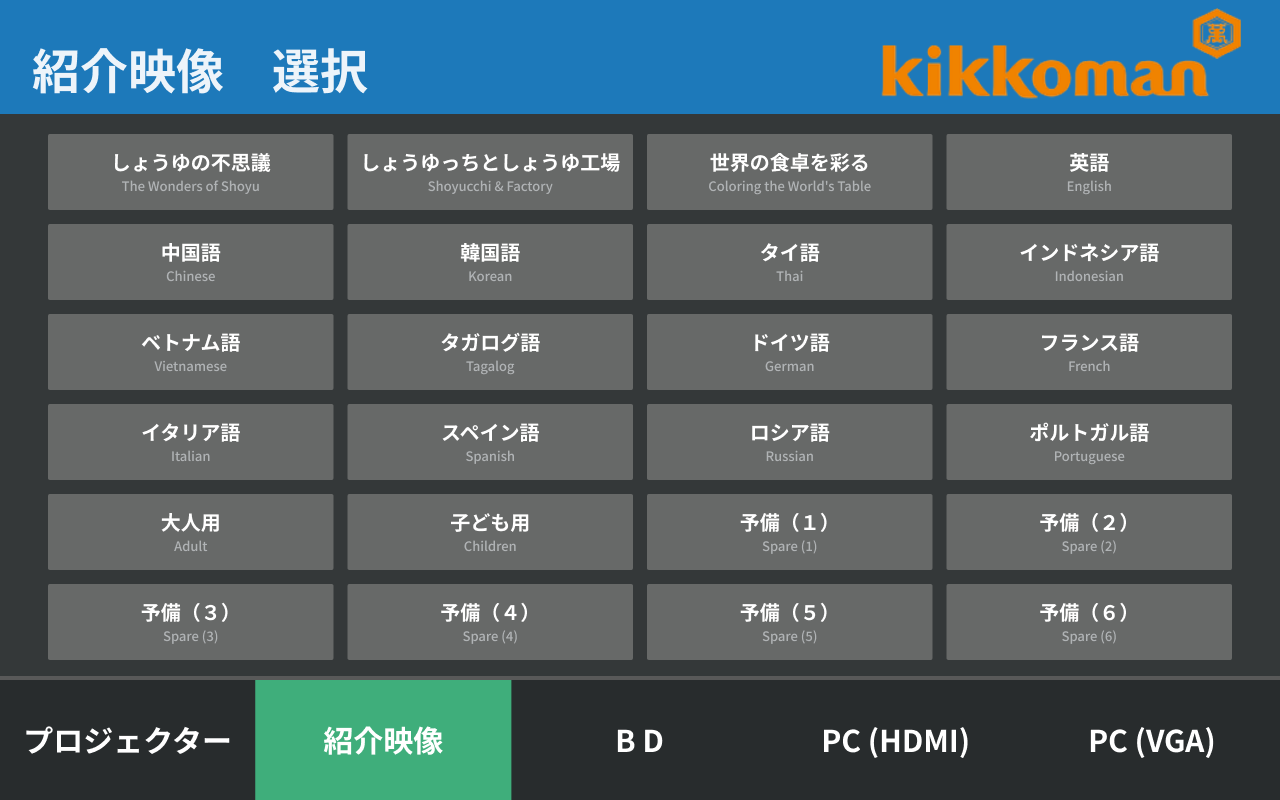
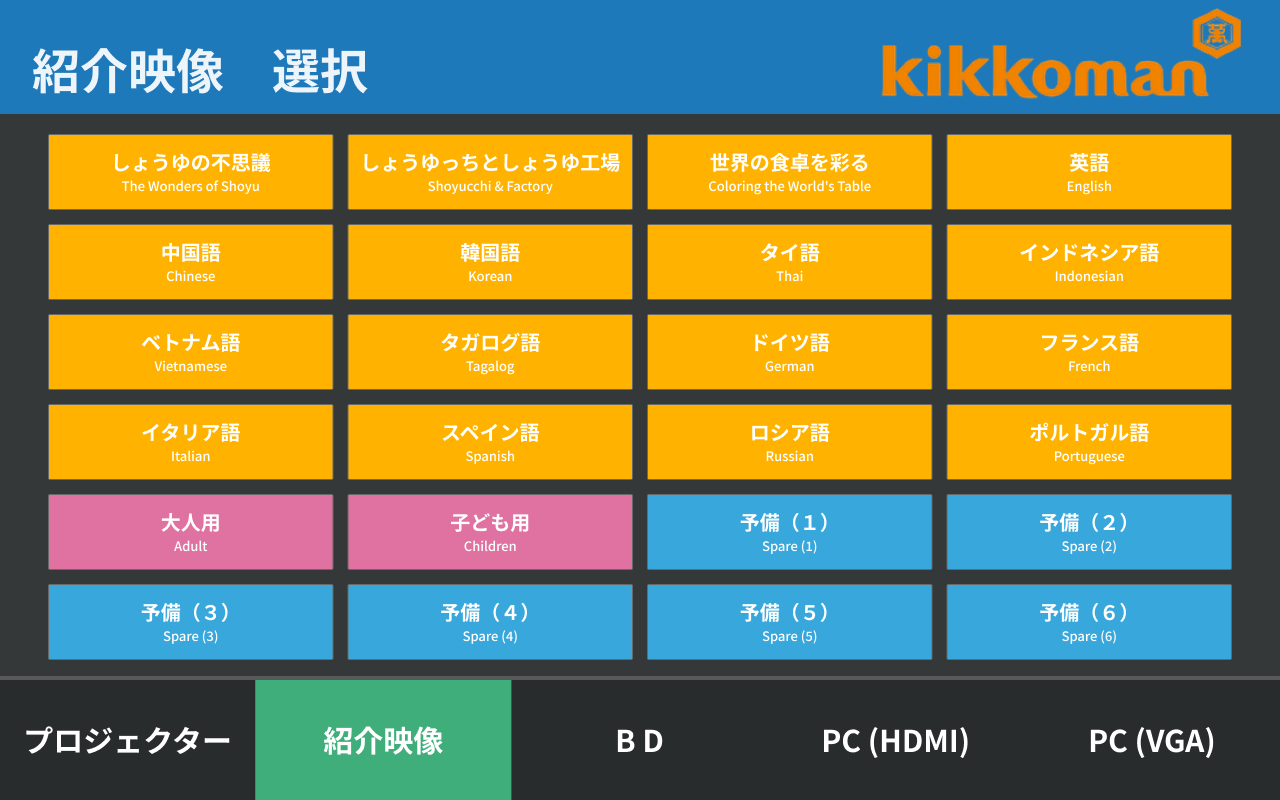
Fixed animation

diff --git a/app.js b/app.js
@@ -3,10 +3,12 @@
 
   var DESIGN_WIDTH = 1280;
   var DESIGN_HEIGHT = 800;
-  var BUTTON_ACTION_DELAY_MS = 750;
-  var BUTTON_COLOR_REMAINDER_MS = 150;
-  var BUTTON_FEEDBACK_MS = 1050;
-  var PAGE_TRANSITION_MS = 950;
+  var BUTTON_ACTION_DELAY_MS = 520;
+  var BUTTON_COLOR_REMAINDER_MS = 100;
+  var BUTTON_FEEDBACK_MS = 780;
+  var PAGE_TRANSITION_MS = 700;
+  var UDP_RECEIVER_INITIAL_DELAY_MS = 1500;
+  var UDP_RECEIVER_RETRY_MS = 5000;
   var udpConfig = window.BRIGHTSIGN_UDP_CONFIG || {};
 
   var pages = {
@@ -72,7 +74,8 @@
   var selectedPlaybackLabel = introButtons[0].ja;
   var isVideoPlaying = false;
   var udpReceiverSocket = null;
-  var lastBdTabTap = 0;
+  var udpReceiverRetryTimer = 0;
+  var udpReceiverStarting = false;
   var pageTransitionTimer = 0;
   var preloadedPageImages = [];
   function udpCommand(key, fallback) {
@@ -137,11 +140,31 @@
     }
   }
 
+  function scheduleUdpReceiverRetry() {
+    if (!udpConfig.receiveEnabled || typeof require !== "function") return;
+    if (udpReceiverSocket || udpReceiverStarting || udpReceiverRetryTimer) return;
+
+    udpReceiverRetryTimer = window.setTimeout(function () {
+      udpReceiverRetryTimer = 0;
+      startUdpReceiver();
+    }, UDP_RECEIVER_RETRY_MS);
+  }
+
+  function closeUdpReceiverSocket(socket) {
+    if (!socket) return;
+    try {
+      socket.close();
+    } catch (closeError) {
+      console.warn("UDP receiver close skipped: " + closeError.message);
+    }
+  }
+
   function startUdpReceiver() {
     var receivePort = Number(udpConfig.receivePort);
     var receiveHost = udpConfig.receiveHost || "0.0.0.0";
 
     if (!udpConfig.receiveEnabled || typeof require !== "function") return;
+    if (udpReceiverSocket || udpReceiverStarting) return;
     if (!receivePort || receivePort < 1 || receivePort > 65535) {
       console.error("UDP receive configuration error: set a valid receivePort.");
       return;
@@ -149,21 +172,33 @@
 
     try {
       var dgram = require("dgram");
-      udpReceiverSocket = dgram.createSocket("udp4");
-      udpReceiverSocket.on("message", function (message) {
+      var socket = dgram.createSocket("udp4");
+      udpReceiverSocket = socket;
+      udpReceiverStarting = true;
+
+      socket.on("message", function (message) {
         handleIncomingUdpCommand(message.toString("utf8"));
       });
-      udpReceiverSocket.on("error", function (error) {
-        console.error("UDP receive failed: " + error.message);
-        udpReceiverSocket.close();
-        udpReceiverSocket = null;
-      });
-      udpReceiverSocket.bind(receivePort, receiveHost, function () {
+      socket.once("listening", function () {
+        if (udpReceiverSocket !== socket) return;
+        udpReceiverStarting = false;
         console.log("UDP finish-command receiver listening on " + receiveHost + ":" + receivePort);
       });
+      socket.on("error", function (error) {
+        if (udpReceiverSocket !== socket) return;
+        console.error("UDP receive failed: " + error.message);
+        udpReceiverSocket = null;
+        udpReceiverStarting = false;
+        closeUdpReceiverSocket(socket);
+        scheduleUdpReceiverRetry();
+      });
+      socket.bind(receivePort, receiveHost);
     } catch (error) {
+      closeUdpReceiverSocket(udpReceiverSocket);
       udpReceiverSocket = null;
+      udpReceiverStarting = false;
       console.error("UDP receiver is unavailable: " + error.message);
+      scheduleUdpReceiverRetry();
     }
   }
 
@@ -261,8 +296,7 @@
             if (item.id === "bd") {
               handleBdTabTap();
             } else {
-              lastBdTabTap = 0;
-              showPage(item.id === "intro" && isVideoPlaying ? "playback" : item.page, true);
+              showPage(item.id === "intro" && isVideoPlaying ? "playback" : item.page, false);
             }
           }
         });
@@ -271,14 +305,15 @@
   }
 
   function handleBdTabTap() {
-    var now = Date.now();
-    if (now - lastBdTabTap <= 500) {
-      lastBdTabTap = 0;
-      showPage("bdNavigation", true);
-    } else {
-      lastBdTabTap = now;
-      showPage("bdDisc", true);
+    if (currentPage === "bdDisc") {
+      showPage("bdNavigation", false);
+      return;
     }
+    if (currentPage === "bdNavigation") {
+      showPage("bdDisc", false);
+      return;
+    }
+    showPage("bdDisc", false);
   }
 
   function addProjectorControls() {
@@ -445,14 +480,18 @@
   window.addEventListener("resize", resizeStage);
   window.addEventListener("orientationchange", resizeStage);
   window.addEventListener("beforeunload", function () {
-    if (udpReceiverSocket) udpReceiverSocket.close();
+    window.clearTimeout(udpReceiverRetryTimer);
+    udpReceiverRetryTimer = 0;
+    closeUdpReceiverSocket(udpReceiverSocket);
+    udpReceiverSocket = null;
+    udpReceiverStarting = false;
   });
   window.BRIGHTSIGN_PANEL = {
     receiveCommand: handleIncomingUdpCommand,
     videoIsPlaying: function () { return isVideoPlaying; }
   };
-  preloadPageImages();
   resizeStage();
   showPage("projector");
-  window.setTimeout(startUdpReceiver, 250);
+  window.setTimeout(preloadPageImages, 0);
+  window.setTimeout(startUdpReceiver, UDP_RECEIVER_INITIAL_DELAY_MS);
 }());

diff --git a/styles.css b/styles.css
@@ -84,7 +84,7 @@ button {
 
 .ui-button:not(.nav-button) {
   will-change: background-color;
-  transition: background-color 600ms cubic-bezier(0.22, 1, 0.36, 1);
+  transition: background-color 420ms cubic-bezier(0.22, 1, 0.36, 1);
 }
 
 .ui-button:disabled {
@@ -210,7 +210,7 @@ button {
 }
 
 .ui-button:not(.nav-button).pressed:not(:disabled) {
-  animation: button-color-crossfade 900ms linear forwards;
+  animation: button-color-crossfade 620ms linear forwards;
 }
 
 .page-transition-overlay {
@@ -243,7 +243,7 @@ button {
   will-change: opacity;
   transform: translateZ(0);
   backface-visibility: hidden;
-  animation: page-crossfade-out 950ms cubic-bezier(0.4, 0, 0.2, 1) forwards;
+  animation: page-crossfade-out 700ms cubic-bezier(0.4, 0, 0.2, 1) forwards;
 }
 
 .transition-page .ui-button {
@@ -260,7 +260,7 @@ button {
   will-change: opacity;
   transform: translateZ(0);
   backface-visibility: hidden;
-  animation: page-crossfade-in 950ms cubic-bezier(0.4, 0, 0.2, 1) forwards;
+  animation: page-crossfade-in 700ms cubic-bezier(0.4, 0, 0.2, 1) forwards;
 }
 
 @keyframes button-color-crossfade {

diff --git a/index.html b/index.html
@@ -5,9 +5,9 @@
     <meta name="viewport" content="width=device-width, initial-scale=1, maximum-scale=1, user-scalable=no">
     <meta name="theme-color" content="#303435">
     <title>シアター操作パネル — BrightSign Test</title>
-    <link rel="stylesheet" href="styles.css">
-    <script src="udp-config.js"></script>
-    <script src="app.js" defer></script>
+    <link rel="stylesheet" href="styles.css?v=20260818-6">
+    <script src="udp-config.js?v=20260818-6"></script>
+    <script src="app.js?v=20260818-6" defer></script>
   </head>
   <body>
     <main id="stage" aria-label="シアター操作パネル・テストアプリ">

diff --git a/README.md b/README.md
@@ -17,7 +17,7 @@ Keep `index.html`, `styles.css`, `app.js`, and the `assets` folder together. Do 
 
 The `fonts` folder contains a local Noto Sans JP variable font so Japanese button labels render consistently on BrightSignOS. Keep this folder with the site when publishing.
 
-Action buttons use a continuous multi-stage blend from gray through a pale white highlight into red, without an immediate browser press-color jump, then briefly hold the pressed color. For buttons that change pages, the page dissolve begins just before the button reaches its final red color so the two animations overlap smoothly. Every page change uses a GPU-friendly soft dissolve without the white gradient, including changes made with the bottom navigation tabs. Navigation tabs keep their existing green selected-state behavior.
+Action buttons use a continuous multi-stage blend from gray through a pale white highlight into red, without an immediate browser press-color jump, then briefly hold the pressed color. For red buttons that change pages, the page dissolve begins just before the button reaches its final red color so the two animations overlap smoothly. Bottom navigation tabs change pages immediately without a page dissolve and keep their existing green selected-state behavior.
 
 The 24 introduction-selection buttons map in row order to `assets/video-playback-01.png` through `assets/video-playback-24.png`. This includes the six enabled `予備` buttons, mapped to panels 19–24.
 
@@ -39,6 +39,8 @@ Before testing, edit `udp-config.js`:
 5. Set `enabled: true` for sending and `receiveEnabled: true` for the finish-command receiver.
 
 UDP activity is written to the JavaScript console only, so no status label appears on the panel. A normal Chrome/Edge test cannot send or receive UDP; this is expected browser security behavior. The HTML receiver listens on port `5001` so it does not conflict with BrightAuthor's port `5000`. For a local state test, run `BRIGHTSIGN_PANEL.receiveCommand("VIDEO_FINISHED")` in the browser console.
+
+The first panel renders before the UDP receiver starts. If port `5001` is temporarily unavailable, the receiver failure is contained and the panel remains usable; the application retries the same port every five seconds without changing any UDP commands or destinations.
 
 To confirm packets on a Windows computer, run the included listener in PowerShell:
 
@@ -64,7 +66,7 @@ For a simple full-screen test, copy the contents of this folder to the root of a
 
 ## Current limitation
 
-Projector, BD, HDMI, and VGA controls are currently visual controls awaiting their separate protocol integration. Each introduction-video selection button sends its configured UDP command and shows its corresponding numbered playback panel. While a video is marked as playing, leaving and returning to the Introduction tab restores that playback panel. `STOP_VIDEO` from the on-screen button or the incoming `VIDEO_FINISHED` command clears the state. Tap the bottom **BD** tab twice consecutively to open the supplied BD navigation page. A single BD-tab tap opens the BD playback-control page. The BD navigation **BACK** button remains on the navigation page.
+Projector, BD, HDMI, and VGA controls are currently visual controls awaiting their separate protocol integration. Each introduction-video selection button sends its configured UDP command and shows its corresponding numbered playback panel. While a video is marked as playing, leaving and returning to the Introduction tab restores that playback panel. `STOP_VIDEO` from the on-screen button or the incoming `VIDEO_FINISHED` command clears the state. The first **BD** tab tap from another tab opens the playback-control page. When BD is already selected, each normal BD-tab tap toggles between the playback-control and navigation pages. The BD navigation **BACK** button remains on the navigation page.
 
 Official references:
 
